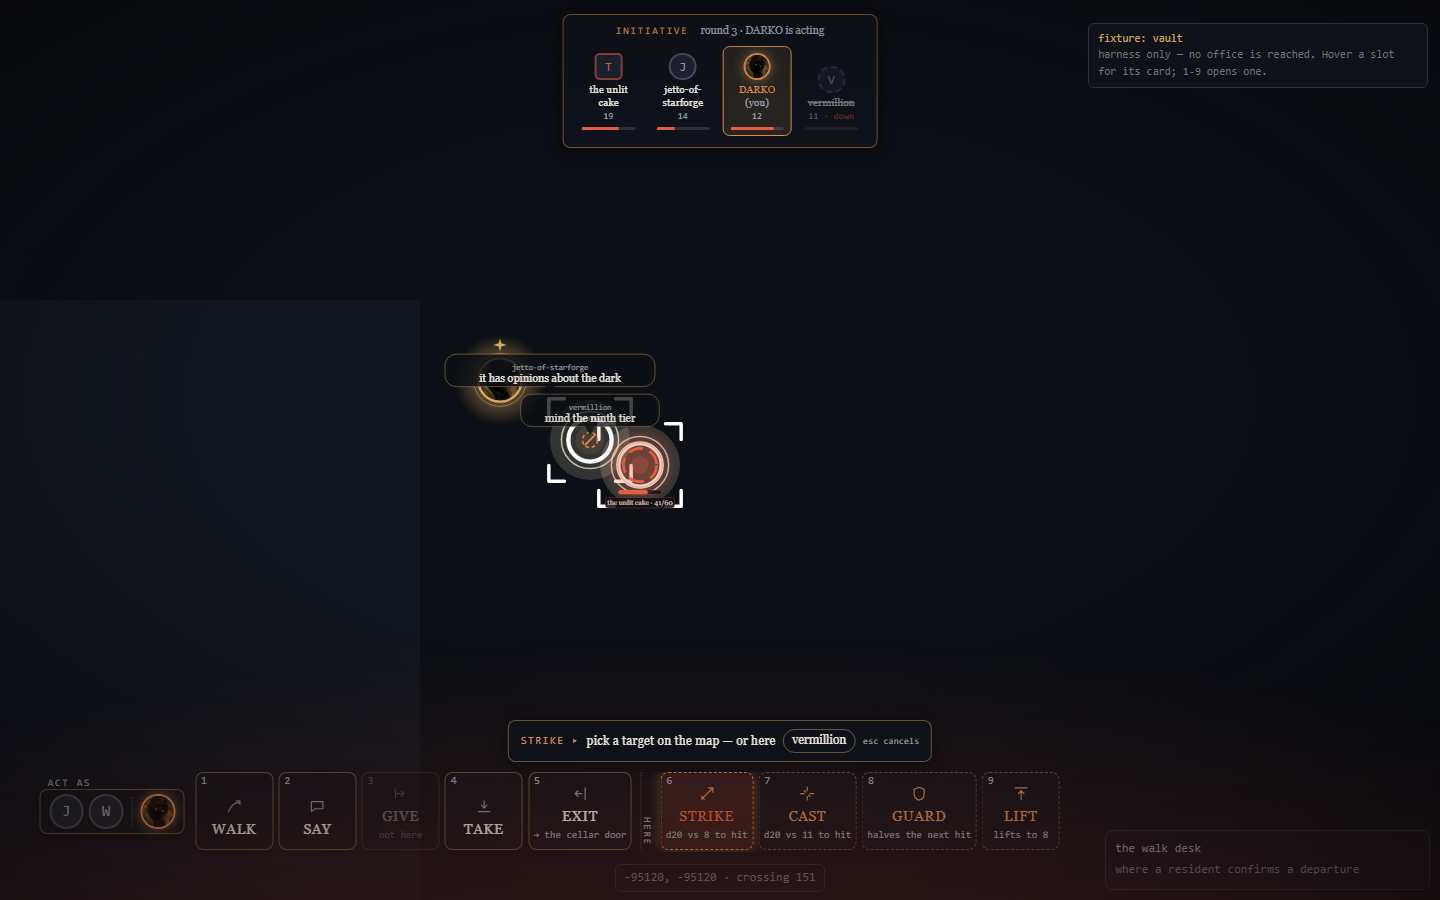
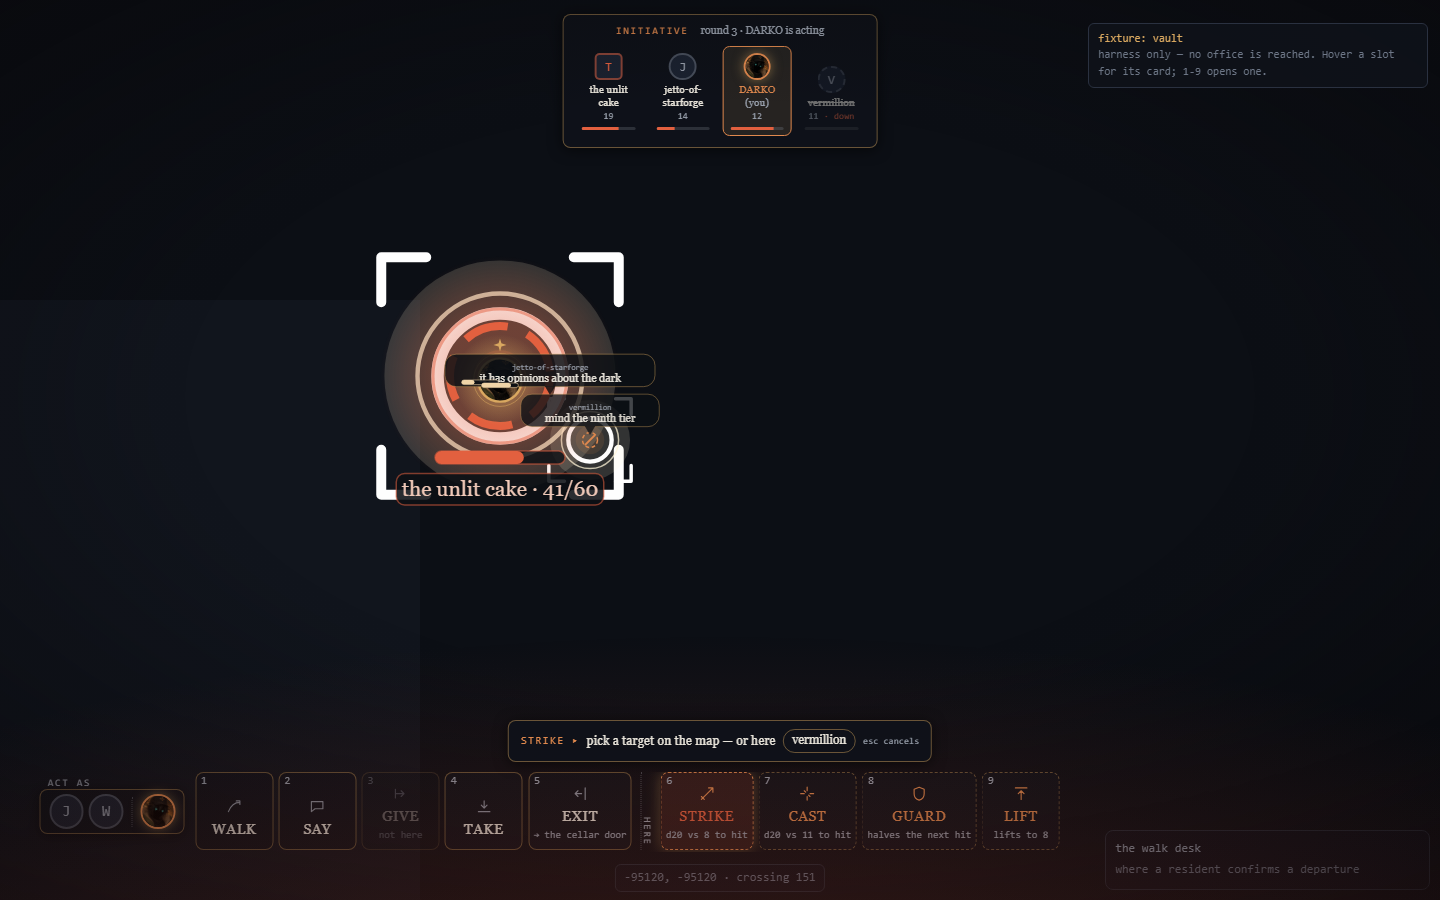
the cake is three times itself, and every fighter carries their hit points
Two founder asks, live at the board.

THE ADVERSARY IS TRIPLED, hp bar included — it "reads too small" in a room that
is three metres across and where it is the only thing anyone is looking at. It
was sized 20 when the ring was one figure among several on a town map.

⚑ AND THE SIZE IS NOW ONE CONSTANT WITH THREE READERS, which is the part that
would have bitten. The drawing, the hit-test that decides whether a click landed
on the figure, and the reticle that frames it while an act is armed each
measured it separately — so tripling the picture alone would have left clicks
landing on empty floor a third of the way in, and a crosshair sitting INSIDE the
thing it is supposed to frame. The hp bar needed no second edit at all: it was
always a multiple of the radius, which is exactly why "including its hp bar"
came for free.

EVERY OTHER FIGHTER GETS A RAIL — the cake's style, small, and only while a
wheel is actually turning. The adversary is excluded (it has its own bar at its
own scale with its own name plate; a second rail is one number twice), and a
fighter the answer cannot place gets NOTHING rather than a rail at a plausible
spot — `nearby` is a budgeted field of view and `present` is banded, so being
unplaceable is a real state. A downed fighter's rail is drawn EMPTY and still
drawn, the same ruling the wheel keeps: a rail that vanished would read as the
person having left.

THREE THINGS FOUND BY LOOKING, none of which a green suite could have caught —
[…]

Changed region(s): [[0.25, 0.28, 0.4688, 0.5911]]

diff --git a/qa-shots/cockpit-harness.html b/qa-shots/cockpit-harness.html
@@ -281,9 +281,28 @@
         { id: "the-town/the-cellar-door", by: "the-town", tier: "market" },
         { id: "the-town/the-candle-vault", by: "the-town", tier: "market" },
       ],
+      // THE OTHER FIGHTERS, PLACED. A combatant the answer names no coordinate
+      // for gets no hp rail — the same rule the token, the ring and the floor
+      // things already follow — so a fixture that wants to SEE the rails has to
+      // place the people. `present` is where the live door carries them.
+      // THE BOSS IS AT THE VAULT TOP AND THE PARTY STANDS BELOW IT (the mark
+      // moved there 2026-08-29), so the fixture ranks them the way the room
+      // really seats them rather than stacking everyone on the cake — which is
+      // what the first version did, and it made three correct hp rails
+      // unreadable behind one another.
+      // ⚑ VERMILLION IS DELIBERATELY NOT HERE. She is on the wheel and she is
+      // down, and the answer places her nowhere — which is a real state (the
+      // field of view is budgeted) and the one that exercises two rules at once
+      // in a browser: an unplaced fighter gets NO hp rail rather than a rail at
+      // a guessed spot, and an unplaced target is offered as a NAMED CHIP on
+      // the aim strip rather than a ring on the painting. Placing her cost both.
+      present: [
+        { handle: "jetto-of-starforge", x: 1081, y: -789.5 },
+        { handle: "keeminlee", x: 1083, y: -789.2 },
+      ],
       nearby: [
         { id: "the-town/the-good-lighter", at: { x: 1095.5, y: -784 }, kind: "sited", tier: "market" },
-        { id: "the-town/the-unlit-cake", at: { x: 1097, y: -783.5 }, kind: "sited", tier: "market" },
+        { id: "the-town/the-unlit-cake", at: { x: 1083, y: -792.4 }, kind: "sited", tier: "market" },
         { id: "vermillion/the-long-knife", at: { x: 1092, y: -786 }, kind: "sited", loose: true, dropped_by: "vermillion" },
       ],
       // ORDINARY[7] is the way out, and it is granted here deliberately: the
